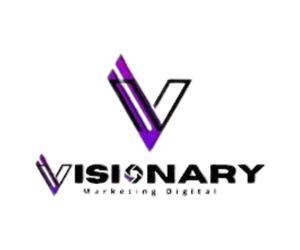
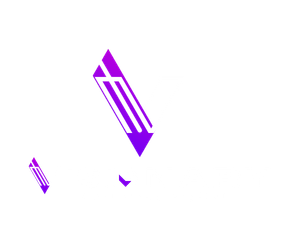
Altera fundo do site para cor escura

Changed region(s): [[0.09, 0.196, 0.9, 0.784]]

diff --git a/css/style.css b/css/style.css
@@ -8460,7 +8460,7 @@ h1, h2, h3, h4, h5,
       margin-right: -35px; } }
   .icon-video span {
     font-size: 20px;
-    color: #fff; }
+    color: #000; }
     .icon-video:hover{
       background: #bdd639;
     }
@@ -8479,7 +8479,7 @@ h1, h2, h3, h4, h5,
       width: 100%;
       display: block; } }
   .years h4 span {
-    color: #fff; }
+    color: #000; }
 
 .tabulation-2 .nav-pills .nav-item .nav-link {
   background: #fff;
@@ -8490,7 +8490,7 @@ h1, h2, h3, h4, h5,
   .tabulation-2 .nav-pills .nav-item .nav-link span {
     color: #bdd639; }
   .tabulation-2 .nav-pills .nav-item .nav-link.active {
-    color: #fff;
+    color: #000;
     background: #bdd639;
     border: 1px solid #bdd639; }
     .tabulation-2 .nav-pills .nav-item .nav-link.active span {
@@ -8560,7 +8560,7 @@ h1, h2, h3, h4, h5,
     -ms-transition: all 0.3s ease;
     transition: all 0.3s ease; }
     .services .btn-custom span {
-      color: #fff; }
+      color: #000; }
   .services:hover .btn-custom {
     opacity: 1;
     bottom: -25px; }
@@ -8955,7 +8955,8 @@ textarea.form-control {
 
 .heading-section h2 {
   font-size: 30px;
-  font-weight: 700; }
+  font-weight: 700;
+  color: #fff; }
   @media (max-width: 767.98px) {
     .heading-section h2 {
       font-size: 28px; } }
@@ -9063,7 +9064,7 @@ textarea.form-control {
     font-weight: 500;
     font-size: 20px;
     margin-bottom: 0;
-    color: #000000; }
+    color: #fff; }
   .testimony-wrap .position {
     font-size: 16px;
     color: #bdd639; }
@@ -9818,5 +9819,5 @@ textarea.form-control {
 
 /* Fundo geral do site */
 body {
-  background-color: #f5f5f5;
+  background-color: #000;
 }

diff --git a/index.html b/index.html
@@ -198,7 +198,7 @@
 	<!-- Sobre Nós fim -->
 
 	<!-- Clientes início -->
-	<section class="ftco-section ftco-no-pt ftco-no-pb bg-white" style="margin-top: 5em;">
+	<section class="ftco-section ftco-no-pt ftco-no-pb" style="margin-top: 5em;">
 	<div class="container">
 		<div class="row justify-content-center mb-4">
 		<div class="col-md-7 text-center heading-section ftco-animate">